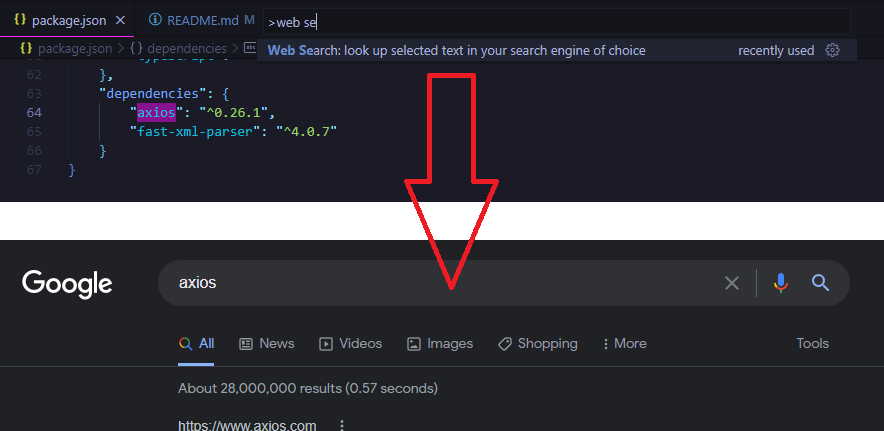
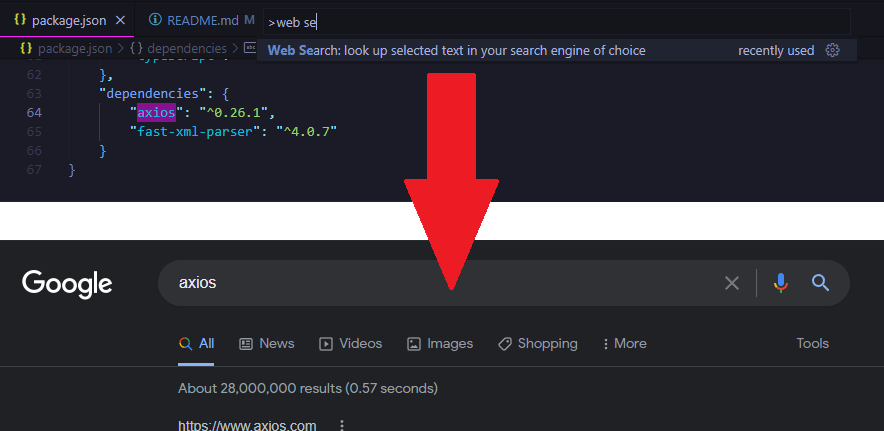
Version 4.1.9 Release - Updated main graphic of WebSearch in project with better arrow appearance and transparency - Added more ideas for future development to the Readme

Changed region(s): [[0.4581, 0.181, 0.5803, 0.6334]]

diff --git a/README.md b/README.md
@@ -104,6 +104,7 @@ Replaced by `webSearch.searchEngines`, allowing you to add multiple search engin
 
 ## Future Development Ideas and To-dos 📝
 
+- Display information message when searching directly (only 1 search engine), inviting user to add more
 - If selected text is a URL, open it directly or run it through PageSpeed Insights
 - Phase out old webSearch.searchEngine setting (use deprecationMessage)
 - Use JSON pattern restriction for search engines setting to validate URLs
@@ -111,6 +112,7 @@ Replaced by `webSearch.searchEngines`, allowing you to add multiple search engin
 - Add setting to disable information messages when searching
 - Ensure keybinding works properly on all operating systems
 - Investigate adding autocomplete engine to manual entry
+- Remove "selected text" from command palette entry title
 - Streamline extension by reducing dependancies
 - Add more GIFs to demo the extension usage
 - Translate the extension to other languages

diff --git a/CHANGELOG.md b/CHANGELOG.md
@@ -1,5 +1,10 @@
 # Changelog
 
+## [4.1.9] (2022-06-26)
+#### Documentation
+* Updated main graphic of WebSearch in project with better arrow appearance and transparency
+* Added more ideas for future development to the Readme
+
 ## [4.1.8] (2022-06-26)
 #### Code Cleanup
 * Moved some non project-specific settings out of the project's settings.json
